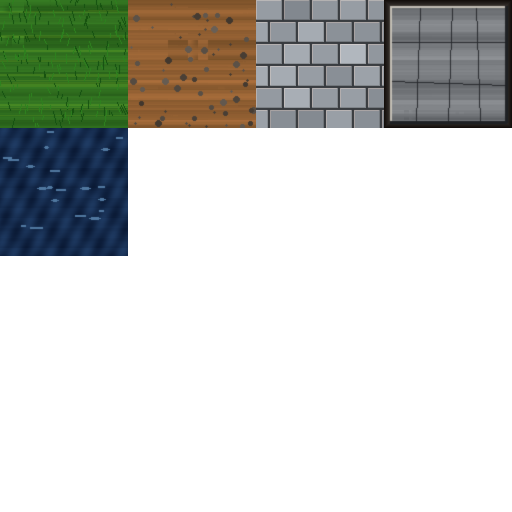
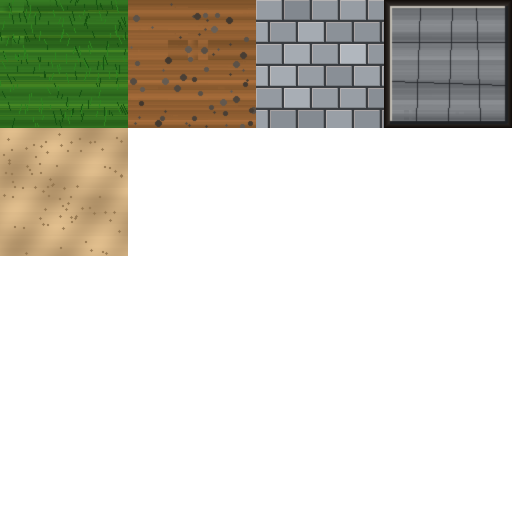
fix

Changed region(s): [[0.0, 0.25, 0.25, 0.5]]

diff --git a/src/game/entities/Player.js b/src/game/entities/Player.js
@@ -157,8 +157,8 @@ export default class Player extends Phaser.Physics.Arcade.Sprite {
     
     // Terrain effects
     const tile = this.scene.arena?.groundLayer?.getTileAtWorldXY(this.x, this.y);
-    if (tile && tile.index === 5) { // 5 is the mud/water tile
-      speedMult *= 0.6; // 40% slowdown in mud
+    if (tile && tile.index === 5) { // 5 is the desert/quicksand tile
+      speedMult *= 0.6; // 40% slowdown in deep sand
     }
 
     return PLAYER_CONFIG.maxSpeed * speedMult;

diff --git a/src/game/entities/Zombie.js b/src/game/entities/Zombie.js
@@ -541,7 +541,7 @@ export default class Zombie extends Phaser.Physics.Arcade.Sprite {
 
     let terrainModifier = 1;
     const tile = this.scene.arena?.groundLayer?.getTileAtWorldXY(this.x, this.y);
-    if (tile && tile.index === 5) { // mud area
+    if (tile && tile.index === 5) { // desert sand area
       terrainModifier = 0.6;
     }
 

diff --git a/scripts/generate-terrain-tiles.py b/scripts/generate-terrain-tiles.py
@@ -206,28 +206,31 @@ def make_brick_wall(size=TILE):
 
 
 def make_water(size=TILE):
-    """Dark, murky water with subtle ripple patterns."""
+    """Deep desert sand/quicksand with wavy dune patterns."""
     img = Image.new("RGB", (size, size))
     pixels = img.load()
     for py in range(size):
         for px in range(size):
-            # Ripple: sine waves at angle + noise
-            ripple = math.sin((px + py * 0.5) * 0.35) * 0.5 + 0.5
-            ripple2 = math.sin((px * 0.6 - py * 0.4) * 0.28 + 1.2) * 0.5 + 0.5
-            n = fbm(px, py, octaves=3, scale=10.0, seed=23)
-            v = ripple * 0.4 + ripple2 * 0.3 + n * 0.3
-            # Deep teal-dark blue
-            r = int(clamp(8  + v*25, 0, 60))
-            g = int(clamp(22 + v*40, 10, 80))
-            b = int(clamp(48 + v*55, 30, 120))
+            # Dune waves: sine waves at angle + noise
+            wave = math.sin((px * 0.8 + py * 0.5) * 0.15) * 0.5 + 0.5
+            wave2 = math.sin((px * 0.3 - py * 0.7) * 0.12 + 1.5) * 0.5 + 0.5
+            n = fbm(px, py, octaves=4, scale=12.0, seed=23)
+            v = wave * 0.4 + wave2 * 0.4 + n * 0.2
+            
+            # Desert sand tones (yellow/orange/beige)
+            r = int(clamp(170 + v*60, 140, 240))
+            g = int(clamp(140 + v*55, 110, 210))
+            b = int(clamp(100 + v*45,  70, 170))
             pixels[px, py] = (r, g, b)
-    # Specular glints
+            
+    # Add scattered pebbles/grain
     draw = ImageDraw.Draw(img)
-    for _ in range(20):
+    for _ in range(80):
         gx = rng.randint(3, size-3); gy = rng.randint(3, size-3)
-        w = rng.randint(4, 12); h2 = rng.randint(1, 2)
-        draw.ellipse([gx, gy, gx+w, gy+h2], fill=(80, 120, 160))
-    img = img.filter(ImageFilter.GaussianBlur(0.5))
+        rad = rng.randint(1, 2)
+        draw.ellipse([gx, gy, gx+rad, gy+rad], fill=(150, 120, 80))
+        
+    img = img.filter(ImageFilter.GaussianBlur(0.4))
     return img
 
 # ─── Assemble tileset ─────────────────────────────────────────────────────────
